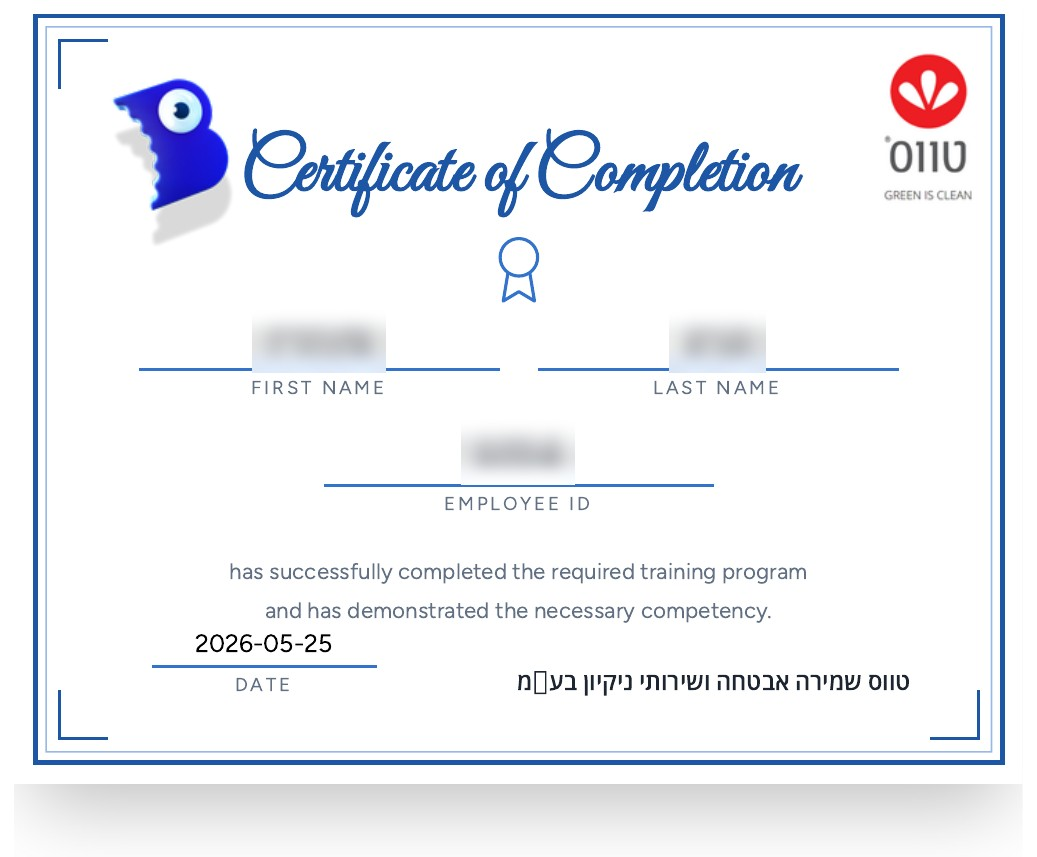
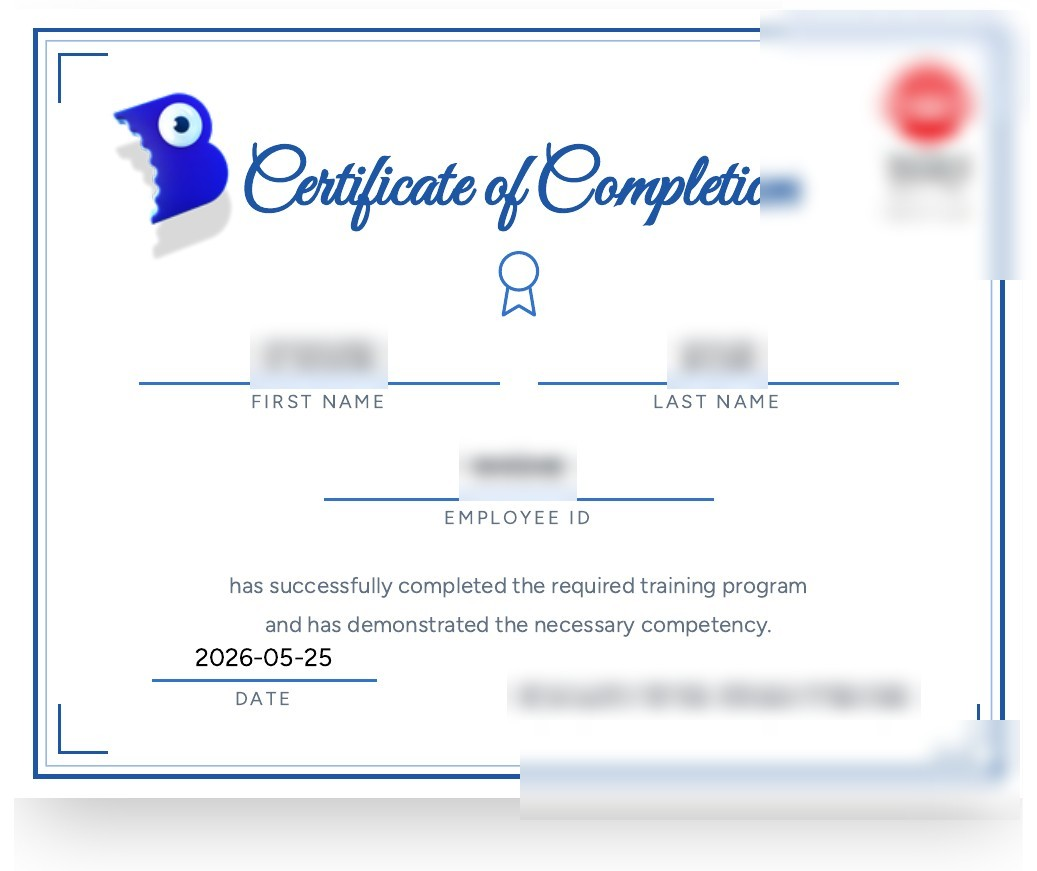
Blur company names on the real certificates

diff --git a/zapier.html b/zapier.html
@@ -79,13 +79,13 @@
      <p>Same pattern as the rest of my work: a customer ask the product does not cover yet, then a practical path that ships.</p>
 
      <figure class="case-shot">
-      <img src="zapier-cert-en.jpg" alt="Certificate of Completion from the flow — employee name and ID blurred">
-      <figcaption>A real certificate from the flow — employee name and ID blurred.</figcaption>
+      <img src="zapier-cert-en.jpg?v=2" alt="Certificate of Completion from the flow — employee name, ID, and company blurred">
+      <figcaption>A real certificate from the flow — employee name, ID, and company name blurred.</figcaption>
      </figure>
 
      <figure class="case-shot">
-      <img src="zapier-cert-he.jpg" alt="Hebrew completion certificate from the flow — employee name and ID blurred" loading="lazy">
-      <figcaption>The Hebrew version for another client — same automation, their fields and branding.</figcaption>
+      <img src="zapier-cert-he.jpg?v=2" alt="Hebrew completion certificate from the flow — employee name, ID, and company blurred" loading="lazy">
+      <figcaption>The Hebrew version for another client — same automation, personal and company fields blurred.</figcaption>
      </figure>
     </div>
    </div>

diff --git a/index.html b/index.html
@@ -203,7 +203,7 @@
 
      <article class="work-card work-card--tint-c">
       <figure class="work-card__shot">
-       <img src="zapier-cert-en.jpg" alt="Real training certificate from the flow — employee name and ID blurred" loading="lazy">
+       <img src="zapier-cert-en.jpg?v=2" alt="Real training certificate from the flow — employee name, ID, and company blurred" loading="lazy">
       </figure>
       <div class="work-card__body">
        <span class="work-card__mark"><img src="logos/zapier.svg" alt="Zapier"></span>
